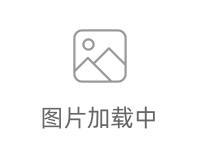
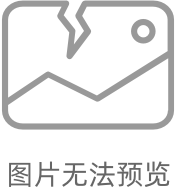
新增loading状态

Changed region(s): [[0.0, 0.0, 0.9943, 0.9688], [0.7386, 0.0938, 0.9091, 0.25]]

diff --git a/src/ViewerCanvas.tsx b/src/ViewerCanvas.tsx
@@ -1,11 +1,12 @@
 import * as React from 'react';
 import Loading from './Loading';
-// import classnames from 'classnames';
+import classnames from 'classnames';
 // import { useReactToPrint } from 'react-to-print';
 // import { Document, Page, pdfjs } from 'react-pdf';
 // import 'react-pdf/dist/umd/Page/AnnotationLayer.css';
 // import PdfjsWorker from './pdf.worker.entry';
 import ViewerPDF from './ViewerPDF';
+const FAILED = require('./images/failed.png');
 
 // pdfjs.GlobalWorkerOptions.workerPort = new PdfjsWorker();
 
@@ -141,18 +142,18 @@ const ViewerCanvas = (props: ViewerCanvasProps, printRef) => {
     document[funcName]('mousemove', handleMouseMove, false);
   }
 
-//   let imgStyle: React.CSSProperties = {
-//     width: `${props.width}px`,
-//     height: `${props.height}px`,
-//     transform: `
-// translateX(${props.left !== null ? props.left + 'px' : 'aoto'}) translateY(${props.top}px)
-//     rotate(${props.rotate}deg) scaleX(${props.scaleX}) scaleY(${props.scaleY})`,
-//   };
+  let imgStyle: React.CSSProperties = {
+    width: `${props.width}px`,
+    height: `${props.height}px`,
+    transform: `
+translateX(${props.left !== null ? props.left + 'px' : 'aoto'}) translateY(${props.top}px)
+    rotate(${props.rotate}deg) scaleX(${props.scaleX}) scaleY(${props.scaleY})`,
+  };
 
-//   const imgClass = classnames(`${props.prefixCls}-image`, {
-//     drag: props.drag,
-//     [`${props.prefixCls}-image-transition`]: !isMouseDown.current,
-//   });
+  const imgClass = classnames(`${props.prefixCls}-image`, {
+    drag: props.drag,
+    [`${props.prefixCls}-image-transition`]: !isMouseDown.current,
+  });
 
   let style = {
     zIndex: props.zIndex,
@@ -239,6 +240,7 @@ const ViewerCanvas = (props: ViewerCanvasProps, printRef) => {
   // };
 
   if (props.imgSrc !== '') {
+    console.log(7777, props.imgSrc)
     // props.imgSrc.endsWith('.pdf') ? imgNode = <ViewerPDF ref={containerRef} {...props} /> : imgNode = <img
     //   ref={containerRef}
     //   className={imgClass}
@@ -246,7 +248,17 @@ const ViewerCanvas = (props: ViewerCanvasProps, printRef) => {
     //   style={imgStyle}
     //   onMouseDown={handleMouseDown}
     // />;
-    imgNode = <ViewerPDF ref={printRef} handleMouseDown={handleMouseDown} isMouseDown={isMouseDown} {...props} />;
+    if(props.imgSrc === 'changePdfFail') {
+      console.log(88888, props.imgSrc)
+      imgNode = <img
+      className={imgClass}
+      src={FAILED}
+      style={imgStyle}
+      // onMouseDown={props.handleMouseDown}
+    />
+    } else {
+      imgNode = <ViewerPDF ref={printRef} handleMouseDown={handleMouseDown} isMouseDown={isMouseDown} {...props} />;
+    }
   }
   if (props.loading) {
     imgNode = (

diff --git a/demo/index.tsx b/demo/index.tsx
@@ -1,11 +1,11 @@
 import * as React from 'react';
 import * as ReactDOM from 'react-dom';
 import Viewer from '../src/Viewer';
-const Failed  = require('./images/failed.png');
+const Loading = require('./images/loading.png');
 const PDF = require('./images/pdf.png');
 const img = require('./images/image.pdf');
-const img1 = require('./images/100.pdf');
-const imgpdf = require('./images/image.pdf');
+// const img1 = require('./images/100.pdf');
+// const imgpdf = require('./images/image.pdf');
 // const img1 = require('./images/image1.jpg');
 // const img2 = require('./images/image2.jpg');
 const img3 = require('./images/image3.jpg');
@@ -119,11 +119,11 @@ class App extends React.Component<any, Partial<State>> {
       prePageNo: 1,
       nextPageNo: 5,
       images: [{
-          navSrc: imgpdf,
-          src: imgpdf,
+          navSrc: '',
+          src: 'changePdfFail',
           fileType: 'pdf',
           alt: 'lake',
-          downloadUrl: 'https://infeng.github.io/react-viewer/59111ff2c38954887bc313887fe76e27.jpg'
+          downloadUrl: ''
         }, {
           navSrc: img,
           src: img,
@@ -131,8 +131,8 @@ class App extends React.Component<any, Partial<State>> {
           alt: '',
           downloadUrl: '',
         }, {
-          navSrc: img1,
-          src: img1,
+          navSrc: '',
+          src: '',
           fileType: 'pdf',
           alt: '',
           downloadUrl: '',
@@ -198,8 +198,8 @@ class App extends React.Component<any, Partial<State>> {
 
   render() {
     let defaultImg = {
-      src: Failed,
-      navSrc: Failed,
+      src: Loading,
+      navSrc: Loading,
     }
 
     let inline = this.state.mode === 'inline';
@@ -349,7 +349,7 @@ class App extends React.Component<any, Partial<State>> {
                 {this.state.images.map((item, index) => {
                   return (
                     <div key={index.toString()} className="img-item">
-                      <img src={item.src?.endsWith('.pdf') ? PDF : item.src||Failed} onClick={() => {
+                      <img src={item.src?.endsWith('.pdf') ? PDF : item.src||Loading} onClick={() => {
                         this.setState({
                           visible: true,
                           activeIndex: index,

diff --git a/src/ViewerCore.tsx b/src/ViewerCore.tsx
@@ -8,6 +8,7 @@ import Icon, { ActionType } from './Icon';
 import * as constants from './constants';
 import classnames from 'classnames';
 import { ViewerRef } from './Viewer';
+const FAILED = require('./images/failed.png')
 
 function noop() { }
 
@@ -234,16 +235,16 @@ export default React.forwardRef((props: ViewerProps, viewerRef: React.MutableRef
     let activeImage: ImageDecorator = null;
     if (images.length > 0) {
       activeImage = images[currentActiveIndex];
-      if (activeImage.src.endsWith('.pdf')) {
-        dispatch(
-          createAction(ACTION_TYPES.update, {
-            loading: false,
-            loadFailed: false,
-            startLoading: false,
-          }),
-        )
-        return
-      }
+      // if (activeImage.src.endsWith('.pdf')) {
+      //   dispatch(
+      //     createAction(ACTION_TYPES.update, {
+      //       loading: false,
+      //       loadFailed: false,
+      //       startLoading: false,
+      //     }),
+      //   )
+      //   return
+      // }
     }
     let loadComplete = false;
     let img = new Image();
@@ -686,6 +687,7 @@ export default React.forwardRef((props: ViewerProps, viewerRef: React.MutableRef
 
   if (visible && state.visible && !state.loading && state.activeIndex !== null && !state.startLoading) {
     activeImg = getActiveImage();
+    console.log(555, activeImg)
   }
 
   return (
@@ -716,7 +718,8 @@ export default React.forwardRef((props: ViewerProps, viewerRef: React.MutableRef
       <ViewerCanvas
         ref={printRef}
         prefixCls={prefixCls}
-        imgSrc={state.loadFailed && !activeImg.src.endsWith('.pdf') ? (props.defaultImg.src || activeImg.src) : activeImg.src}
+        // imgSrc={state.loadFailed && !activeImg.src.endsWith('.pdf') ? (props.defaultImg.src || activeImg.src) : activeImg.src}
+        imgSrc={activeImg.src==='changePdfFail' ? FAILED : state.loadFailed && !activeImg.src.endsWith('.pdf') ? (props.defaultImg.src || activeImg.src) : activeImg.src}
         visible={visible}
         width={state.width}
         height={state.height}

diff --git a/src/ViewerNav.tsx b/src/ViewerNav.tsx
@@ -3,7 +3,7 @@ import * as React from 'react';
 import classnames from 'classnames';
 import { ImageDecorator } from './ViewerProps';
 const PDF = require('./images/pdf@2x.png');
-const FAILED = require('./images/failed.png');
+const LOADING = require('./images/loading.png');
 const ArrowLeft = require('./images/arrow-left.png');
 const ArrowRight = require('./images/arrow-right.png');
 const EXCEL = require('./images/excel@2x.png');
@@ -160,7 +160,7 @@ export default function ViewerNav(props: ViewerNavProps) {
                 item.fileType === 'pdf'
                   ? PDF : item.fileType === 'xls' || item.fileType === 'xlsx'
                     ? EXCEL : item.fileType === 'doc' || item.fileType === 'docx'
-                    ? WORD : item.navSrc || FAILED} alt={item.alt}
+                    ? WORD : item.navSrc || LOADING} alt={item.alt}
             />
           </li>,
           )
